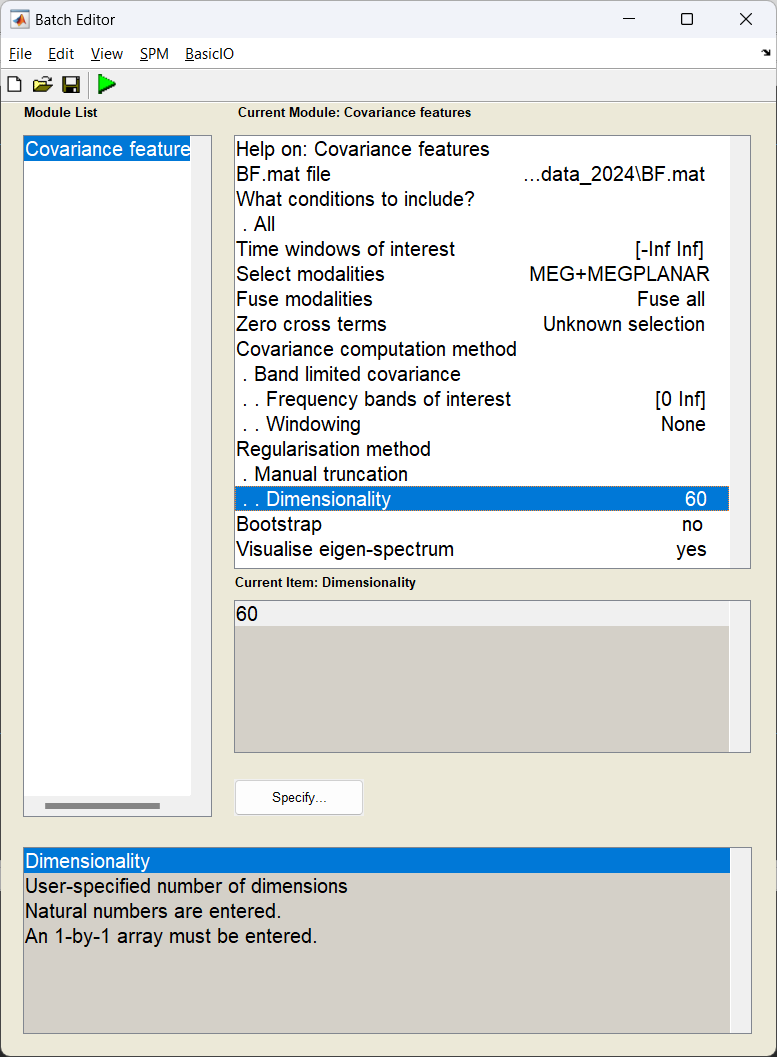
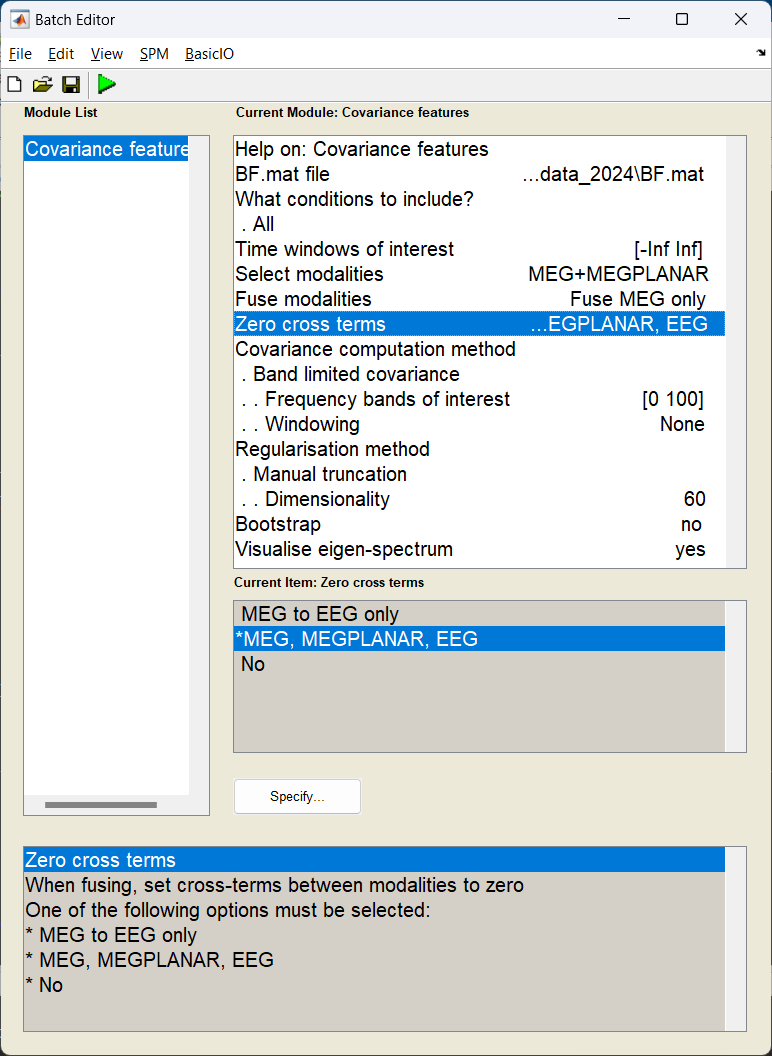
Fix zero cross-terms issue

diff --git a/docs/tutorials/daiss/beamforming/neuromag/index.md b/docs/tutorials/daiss/beamforming/neuromag/index.md
@@ -186,13 +186,52 @@ We have to elements of the beamforming equation to calculate the first is the le
 
 In keeping with the [group analysis tutorial](../../../MEEG/multi/source/#group-statistics-on-source-reconstructions), we are going to localise 10-20 Hz power, and so we generate a covariance matrix $C$ from that frequency band alone. We also add in a couple of steps ensure that the magnetometer and gradiometer channels are fused together to create one covariance matrix for all channels. We shall also truncate our covariance matrix prior to inversion to stop the noise elements dominating and then invert to make $C^{-1}$
 
+=== "GUI"
 
+    Start the batch editor (`Batch` button) on main panel. Then from the dropdown menu `SPM` select `Tools -> DAiSS (beamforming) -> Covariance Features`. You will see the following menu:
 
-With the visualisation option turned on, we can look at the eigenspectrum of the untruncated covariance matrix and look at where we decided to truncate from (black dashed line). We can see that 60 is probably a conservative estimate with the last sensible eigenvector being the 73rd (after that the eigenvectors are about 7 orders of magnitude smaller).
+    Only edit the section about using the `grid` method.
+
+    <figure>
+        <div class="center">
+        <img src="../../../../assets/figures/daiss/beamforming/megin_batch_features.png" style="width:100mm" />
+        </div>
+        <figcaption>The DAiSS feature specification module</figcaption>
+    </figure>
+
+=== "Script"
+
+    ```matlab
+
+    S = [];
+    S.BF = path_BF;
+    S.woi = [-inf inf];
+    S.conditions = 'all';
+
+    % Generate covariance matrix
+    S.method = 'cov';
+    S.cov.taper = 'none';
+    S.cov.foi = [0 100]; % wide band matrix
+
+    % Fuse results from the different sensors - but set cross terms to 0
+    S.modality = {'MEG', 'MEGPLANAR'};
+    S.cross_terms = 'all';
+    S.fuse = 'meg';
+
+    % Regularise by truncating the matrix to after the 60th eigenvector
+    S.reg = 'mantrunc';
+    S.(S.reg).pcadim = 60;
+    S.visualise = 1;
+
+    bf_wizard_features(S);
+
+    ```
+
+With the visualisation option turned on, we can look at the eigenspectrum of the untruncated covariance matrix and look at where we decided to truncate from (black dashed line). We can see that 60 is probably a conservative estimate with the last sensible eigenvector being the 120th (after that the eigenvectors are about 15 orders of magnitude smaller).
 
 <figure>
     <div class="center">
-    <img src="../../../../assets/figures/daiss/beamforming/megin_eigenspectrum_v2.png" style="width:100mm" />
+    <img src="../../../../assets/figures/daiss/beamforming/megin_eigenspectrum_post.png" style="width:100mm" />
     </div>
     <figcaption>The eigenspectrum of the 10-20 Hz covariance matrix (blue) with the truncation line overlaid (black)</figcaption>
 </figure>
@@ -201,7 +240,30 @@ With the visualisation option turned on, we can look at the eigenspectrum of the
 
 With the lead fields and covariance matrix calculated, we finally put it all together to make our weights $w_{\theta}$ for a given source $\theta$. Earlier we generated three lead fields for each source (each oriented in one of the three cardinal directions). Here we will linearly combine them in such a way they give us maximal power in that area.
 
+=== "GUI"
 
+    Start the batch editor (`Batch` button) on main panel. Then from the dropdown menu `SPM` select `Tools -> DAiSS (beamforming) -> Inverse Solution`. You will see the following menu:
+
+    Only edit the section about using the `grid` method.
+
+    <figure>
+        <div class="center">
+        <img src="../../../../assets/figures/daiss/beamforming/megin_batch_inverse.png" style="width:100mm" />
+        </div>
+        <figcaption>The DAiSS inverse solution module</figcaption>
+    </figure>
+
+=== "Script"
+
+    ```matlab
+
+    S = [];
+    S.BF = path_BF;
+    S.method = 'lcmv';
+
+    bf_wizard_inverse(S);
+
+    ```
 
 ## Generating activation images
 
@@ -306,7 +368,7 @@ If this has worked you should see three NIFTI format images beginning with `uv_p
         S.glass.threshold = 0.8;
         bf_wizard_view(S);
     ```
-    This should result in a few clusters being displayed, including one positive one located in the right fusiform face area!
+    This should result in a cluster located approximately in the right fusiform face area!
     <figure>
         <div class="center">
         <img src="../../../../assets/figures/daiss/beamforming/megin_contrast_result.png" style="width:100mm" />
